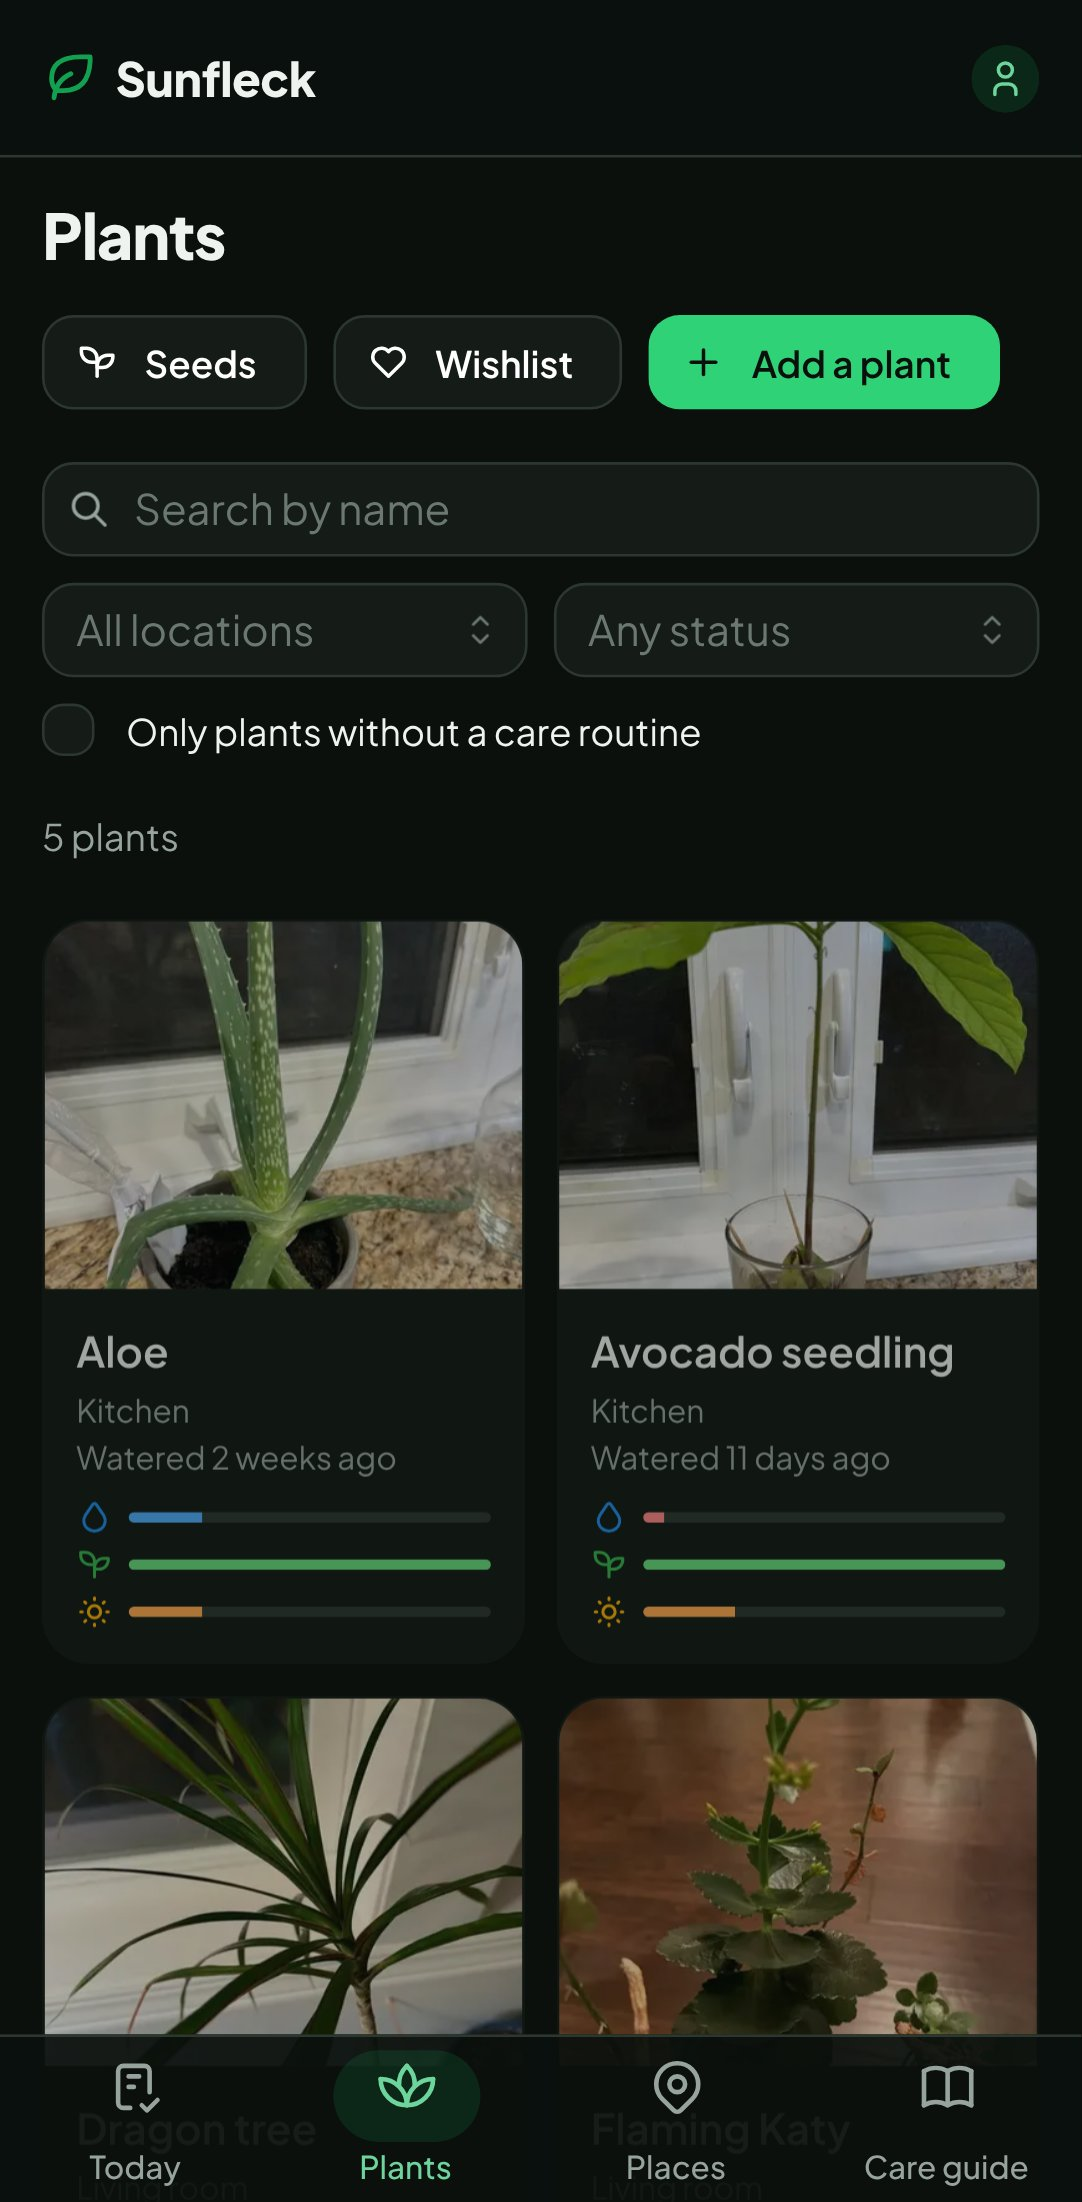
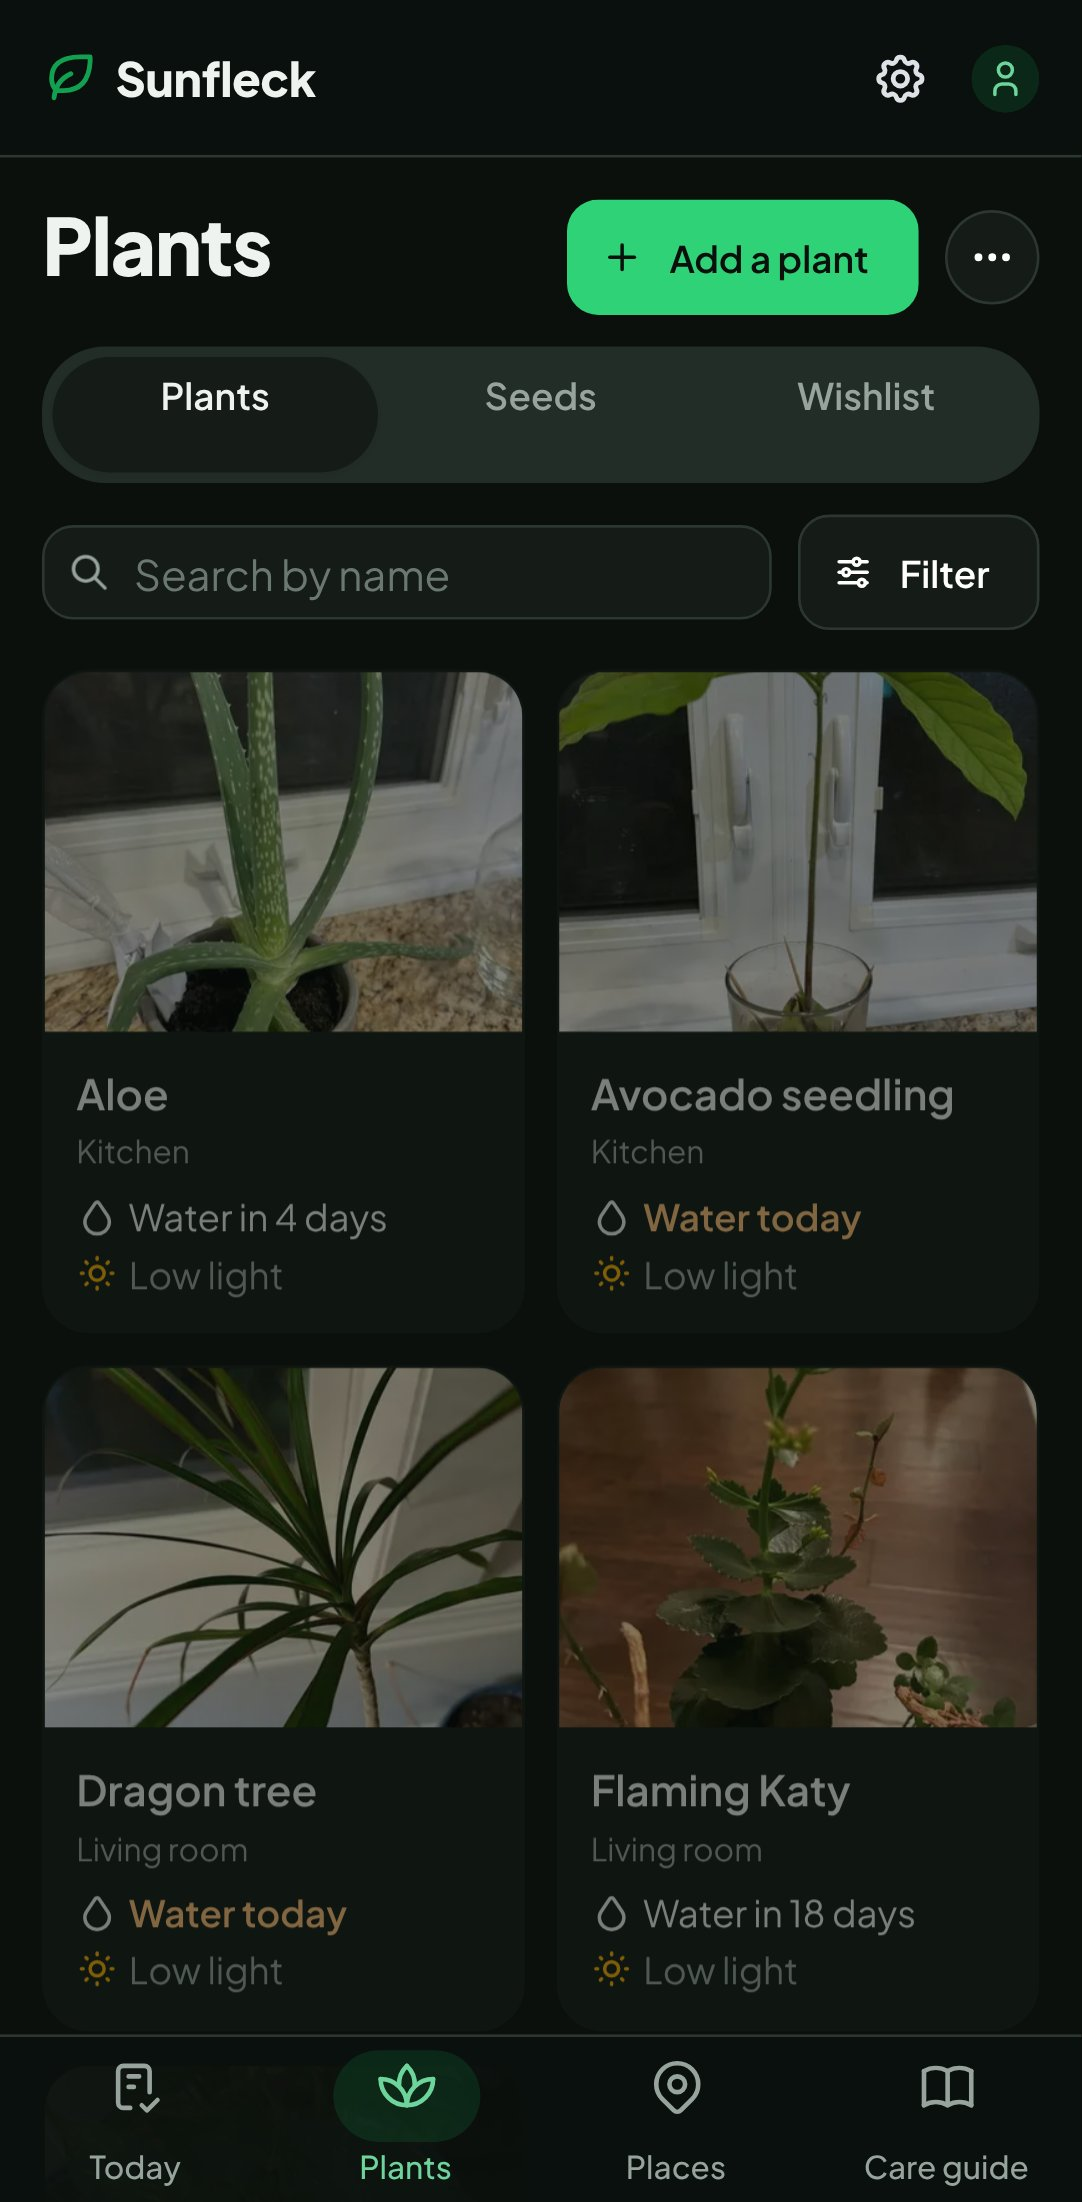
feat(ui): skeletons while loading, a little more presence on sign-in, and the finish
UI plan, WP13:
- Skeletons shaped like Today, the Plants grid and a plant's page (one or two columns), in
  place of the spinner there (SkeletonPage announces "Loading…" once); other pages keep it.
- AuthCard: a larger mark, the name larger, and the one-line description under it.
- README screenshots made again (make screenshots), and every effort budget re-measured on
  2026-11-13: none higher; putting care off from a plant's page and adding a room with a
  window are lower.
- H4, H6, H9 and H10 marked fixed in the heuristic review.

Claude-Session: https://claude.ai/code/session_01MZwoJTAK6F6URgNzZ6Gg31

diff --git a/frontend/src/components/AuthCard.tsx b/frontend/src/components/AuthCard.tsx
@@ -1,4 +1,4 @@
-import { Center, Group, Paper, Stack, Text, ThemeIcon, Title } from "@mantine/core";
+import { Center, Paper, Stack, Text, ThemeIcon, Title } from "@mantine/core";
 import { IconPlant2 } from "@tabler/icons-react";
 import type { ReactNode } from "react";
 import { useTranslation } from "react-i18next";
@@ -15,15 +15,18 @@ export function AuthCard({ title, children }: AuthCardProps) {
     // The page's main content, for screen readers' "skip to main" and landmark lists.
     <Center component="main" mih="100dvh" p="md">
       <Stack w="100%" maw={420} gap="lg">
-        <Group justify="center" gap="xs">
-          <ThemeIcon size="lg" radius="xl" variant="light">
-            <IconPlant2 size={22} aria-hidden />
+        <Stack align="center" gap={6}>
+          <ThemeIcon size={56} radius="xl" variant="light">
+            <IconPlant2 size={32} aria-hidden />
           </ThemeIcon>
           {/* The app's name, not a heading: the page's title (below) is its first heading. */}
-          <Text fw={700} fz="h3">
+          <Text fw={800} fz="h2" lh={1.1} style={{ letterSpacing: "-0.02em" }}>
             {t("app.name")}
           </Text>
-        </Group>
+          <Text size="sm" c="dimmed" ta="center">
+            {t("app.tagline")}
+          </Text>
+        </Stack>
         <Paper withBorder radius="lg" p="xl" shadow="sm">
           <Stack gap="md">
             <Title order={1} fz="h2">

diff --git a/frontend/src/features/plants/PlantsPage.tsx b/frontend/src/features/plants/PlantsPage.tsx
@@ -1,14 +1,4 @@
-import {
-  Button,
-  Center,
-  Group,
-  Loader,
-  Menu,
-  SimpleGrid,
-  Stack,
-  Text,
-  TextInput,
-} from "@mantine/core";
+import { Button, Center, Group, Menu, SimpleGrid, Stack, Text, TextInput } from "@mantine/core";
 import { useDebouncedValue } from "@mantine/hooks";
 import { IconPlus, IconQrcode, IconSearch } from "@tabler/icons-react";
 import { useState } from "react";
@@ -23,6 +13,7 @@ import { PageHeader } from "../../components/PageHeader";
 import { useCanEdit } from "../../lib/useCanEdit";
 import { ActiveFilters } from "./ActiveFilters";
 import { PlantCard } from "./PlantCard";
+import { PlantsSkeleton } from "./PlantsSkeleton";
 import { PlantsViews } from "./PlantsViews";
 import { type PlantFilterValues, PlantFilters } from "./PlantFilters";
 
@@ -102,9 +93,7 @@ export function PlantsPage() {
 
       <ErrorAlert error={plants.error} />
       {plants.isPending ? (
-        <Center py="xl">
-          <Loader />
-        </Center>
+        <PlantsSkeleton />
       ) : items.length === 0 ? (
         <EmptyState
           illustration={filtered ? "search" : "plant"}

diff --git a/frontend/src/features/today/TodayPage.tsx b/frontend/src/features/today/TodayPage.tsx
@@ -8,7 +8,6 @@ import { usePlants } from "../../api/plants";
 import { useToday } from "../../api/today";
 import { EmptyState } from "../../components/EmptyState";
 import { ErrorAlert } from "../../components/ErrorAlert";
-import { FullPageLoader } from "../../components/FullPageLoader";
 import { PageHeader } from "../../components/PageHeader";
 import { useCanEdit } from "../../lib/useCanEdit";
 import { GardenNote } from "../garden/GardenNote";
@@ -16,6 +15,7 @@ import { GettingStarted } from "../home/GettingStarted";
 import { DueCount } from "./DueCount";
 import { groupBy } from "./grouping";
 import { TaskGroup } from "./TaskGroup";
+import { TodaySkeleton } from "./TodaySkeleton";
 import { WeatherCard } from "./WeatherCard";
 
 /** The household's care for today: what's overdue or due, by location, then what's coming up. */
@@ -27,7 +27,7 @@ export function TodayPage() {
   const plantCount = usePlants().data?.pages[0]?.count;
 
   if (today.isPending) {
-    return <FullPageLoader />;
+    return <TodaySkeleton />;
   }
   if (!today.data) {
     return <ErrorAlert error={today.error} />;

diff --git a/frontend/src/features/plants/PlantSkeleton.tsx b/frontend/src/features/plants/PlantSkeleton.tsx
@@ -1,0 +1,35 @@
+import { AspectRatio, Grid, Skeleton, Stack } from "@mantine/core";
+import { useMediaQuery } from "@mantine/hooks";
+
+import { SkeletonPage } from "../../components/SkeletonPage";
+
+/** A plant's page while it loads: its photo, then its Care and Light cards (two columns wide). */
+export function PlantSkeleton() {
+  const wide = useMediaQuery("(min-width: 62em)", false, { getInitialValueInEffect: false });
+  const photo = (
+    <AspectRatio ratio={4 / 3}>
+      <Skeleton radius="lg" />
+    </AspectRatio>
+  );
+  const cards = (
+    <Stack gap="lg">
+      <Skeleton h={220} radius="lg" />
+      <Skeleton h={160} radius="lg" />
+    </Stack>
+  );
+  return (
+    <SkeletonPage>
+      {wide ? (
+        <Grid gap="lg">
+          <Grid.Col span={5}>{photo}</Grid.Col>
+          <Grid.Col span={7}>{cards}</Grid.Col>
+        </Grid>
+      ) : (
+        <Stack gap="lg">
+          {photo}
+          {cards}
+        </Stack>
+      )}
+    </SkeletonPage>
+  );
+}

diff --git a/frontend/src/features/plants/PlantPage.tsx b/frontend/src/features/plants/PlantPage.tsx
@@ -5,7 +5,6 @@ import { useParams } from "react-router";
 
 import { type Photo, usePlant } from "../../api/plants";
 import { ErrorAlert } from "../../components/ErrorAlert";
-import { FullPageLoader } from "../../components/FullPageLoader";
 import { useCanEdit } from "../../lib/useCanEdit";
 import { CareCard } from "../care/CareCard";
 import { PlantTimeline } from "../care/PlantTimeline";
@@ -18,6 +17,7 @@ import { PlantAbout } from "./PlantAbout";
 import { PlantConversations } from "./PlantConversations";
 import { PlantHeader } from "./PlantHeader";
 import { PlantPhotos } from "./PlantPhotos";
+import { PlantSkeleton } from "./PlantSkeleton";
 
 /**
  * A plant: on phones one column (its care first, what there is to know about it last); on
@@ -39,7 +39,7 @@ export function PlantPage() {
   };
 
   if (plant.isPending) {
-    return <FullPageLoader />;
+    return <PlantSkeleton />;
   }
   if (!plant.data) {
     return <ErrorAlert error={plant.error} />;

diff --git a/frontend/src/features/today/TodaySkeleton.tsx b/frontend/src/features/today/TodaySkeleton.tsx
@@ -1,0 +1,26 @@
+import { Container, Paper, Skeleton, Stack } from "@mantine/core";
+
+import { SkeletonPage } from "../../components/SkeletonPage";
+
+/** Today while it loads: a weather card and two groups of care rows. */
+export function TodaySkeleton() {
+  return (
+    <Container size="reading" px={0}>
+      <SkeletonPage>
+        <Stack gap="lg">
+          <Skeleton h={120} radius="lg" />
+          {[3, 2].map((rows, group) => (
+            <Paper key={group} withBorder radius="lg" p="md">
+              <Stack gap="sm">
+                <Skeleton h={12} w={120} />
+                {Array.from({ length: rows }, (_, row) => (
+                  <Skeleton key={row} h={44} radius="md" />
+                ))}
+              </Stack>
+            </Paper>
+          ))}
+        </Stack>
+      </SkeletonPage>
+    </Container>
+  );
+}

diff --git a/frontend/src/features/plants/PlantsSkeleton.tsx b/frontend/src/features/plants/PlantsSkeleton.tsx
@@ -1,0 +1,21 @@
+import { AspectRatio, Card, SimpleGrid, Skeleton, Stack } from "@mantine/core";
+
+/** The plant grid while it loads: cards with a photo, a name and a status line. */
+export function PlantsSkeleton() {
+  return (
+    <SimpleGrid cols={{ base: 2, sm: 3, md: 4 }} spacing="sm" aria-hidden>
+      {Array.from({ length: 6 }, (_, index) => (
+        <Card key={index} withBorder radius="lg" padding={0}>
+          <AspectRatio ratio={4 / 3}>
+            <Skeleton radius={0} />
+          </AspectRatio>
+          <Stack gap={6} p="sm">
+            <Skeleton h={16} w="70%" />
+            <Skeleton h={12} w="45%" />
+            <Skeleton h={14} w="60%" />
+          </Stack>
+        </Card>
+      ))}
+    </SimpleGrid>
+  );
+}

diff --git a/frontend/src/components/SkeletonPage.tsx b/frontend/src/components/SkeletonPage.tsx
@@ -1,0 +1,18 @@
+import { Skeleton, Stack } from "@mantine/core";
+import type { ReactNode } from "react";
+import { useTranslation } from "react-i18next";
+
+/**
+ * A page's shape while it loads, in place of a spinner, so the page doesn't jump when it
+ * arrives. Announced once as "Loading…"; the shapes themselves are hidden from screen readers.
+ */
+export function SkeletonPage({ children }: { children: ReactNode }) {
+  const { t } = useTranslation();
+  return (
+    <Stack gap="lg" role="status" aria-label={t("common.loading")} aria-busy>
+      {/* The title. */}
+      <Skeleton h={36} w="45%" radius="md" aria-hidden />
+      <div aria-hidden>{children}</div>
+    </Stack>
+  );
+}

diff --git a/docs/heuristic-review.md b/docs/heuristic-review.md
@@ -64,6 +64,8 @@ those headings are names rather than labels, and read worse in capitals:
 
 ### H4. Light in mol/m²/day (severity 2)
 
+**Fixed** (UI plan, part 4): a plant's Light card and a room's page lead with words (dim, medium, bright, very bright), with mol/m²/day dimmed beside them.
+
 **Heuristic:** match between the system and the real world.
 
 A room's page lists each window's light by season as numbers in mol/m²/day (the daily light
@@ -84,6 +86,8 @@ A place's page shows its time zone and coordinates under its name ("Europe/Amste
 and keep the time zone only where it matters.
 
 ### H6. Notification channels ask for an "Apprise URL" (severity 2)
+
+**Fixed** (UI plan, part 11): **This device** comes first, and the Apprise form is folded under "Other ways: ntfy, Telegram, email…". Offering the common services by name is still to do.
 
 **Heuristic:** match between the system and the real world.
 
@@ -120,6 +124,8 @@ idea of a care profile isn't explained on the form, and it looks like something 
 
 ### H9. A plant's page is long (severity 2)
 
+**Fixed** (UI plan, parts 3 and 4): propagate, print a label and write an NFC tag are in the "⋯" menu by **Edit**; care is one card, light another, and the page is about 2,800px on a phone instead of 3,400.
+
 **Heuristic:** aesthetic and minimalist design.
 
 A plant's page has about twelve cards. Daily things come first (care rings, the care
@@ -130,6 +136,8 @@ the plant's details and its photos and history.
 menu by **Edit**, so photos and history come sooner.
 
 ### H10. Plant cards' bars have no labels (severity 1)
+
+**Fixed** (UI plan, part 2): each card says in words what the plant needs next ("Water today"), and "Low light" when its spot is too dark; the bars are gone.
 
 **Heuristic:** recognition rather than recall.
 

diff --git a/CHANGELOG.md b/CHANGELOG.md
@@ -88,6 +88,9 @@ make a backup ([how to upgrade](docs/install.md#upgrading)).
   people; ntfy, Telegram, email and the rest are folded under **Other ways**, and the page no
   longer opens by explaining Apprise. A plugin's switch says **Off** when it's off (it said
   **On** either way), and its version moved into its details.
+- **Loading looks like the page** (UI plan, part 13): Today, Plants and a plant's page show
+  their shape while they load, instead of a spinner. The sign-in and setup pages show
+  Sunfleck's mark larger, with a line saying what it is. The README's screenshots are new.
 - **A new look**: a cleaner, more modern design across the whole app, in light and dark mode.
   It uses the Plus Jakarta Sans typeface, which is bundled with Sunfleck, so no font service
   is contacted. Pages are soft grey-green with white cards, and headings are clearer. The

diff --git a/docs/usability.md b/docs/usability.md
@@ -50,7 +50,9 @@ why in the pull request; when one gets cheaper, lower it.
 | Put care in a calendar app | Today | 4 | 0 | 2 |
 | Set up a place, a room with a window and a first plant (first-run flow; in `journeys.e2e.ts`, on an empty household) | Today | 9 | 4 | 2 |
 
-Measured on 2026-11-05, for 0.7. After the 1.0 usability test, settings moved from the account
+Measured on 2026-11-05, for 0.7, and all again on 2026-11-13 after the 1.0 UI plan, which lowered
+putting care off from a plant's page (5 taps to 3) and adding a room with a window (8 taps over
+4 pages to 7 over 3), and added the first-run flow. No budget went up. After the 1.0 usability test, settings moved from the account
 menu to a Settings page (the gear at the top), which said what each setting is for: inviting
 someone and the calendar now pass through it, one page change more for the same taps.
 
